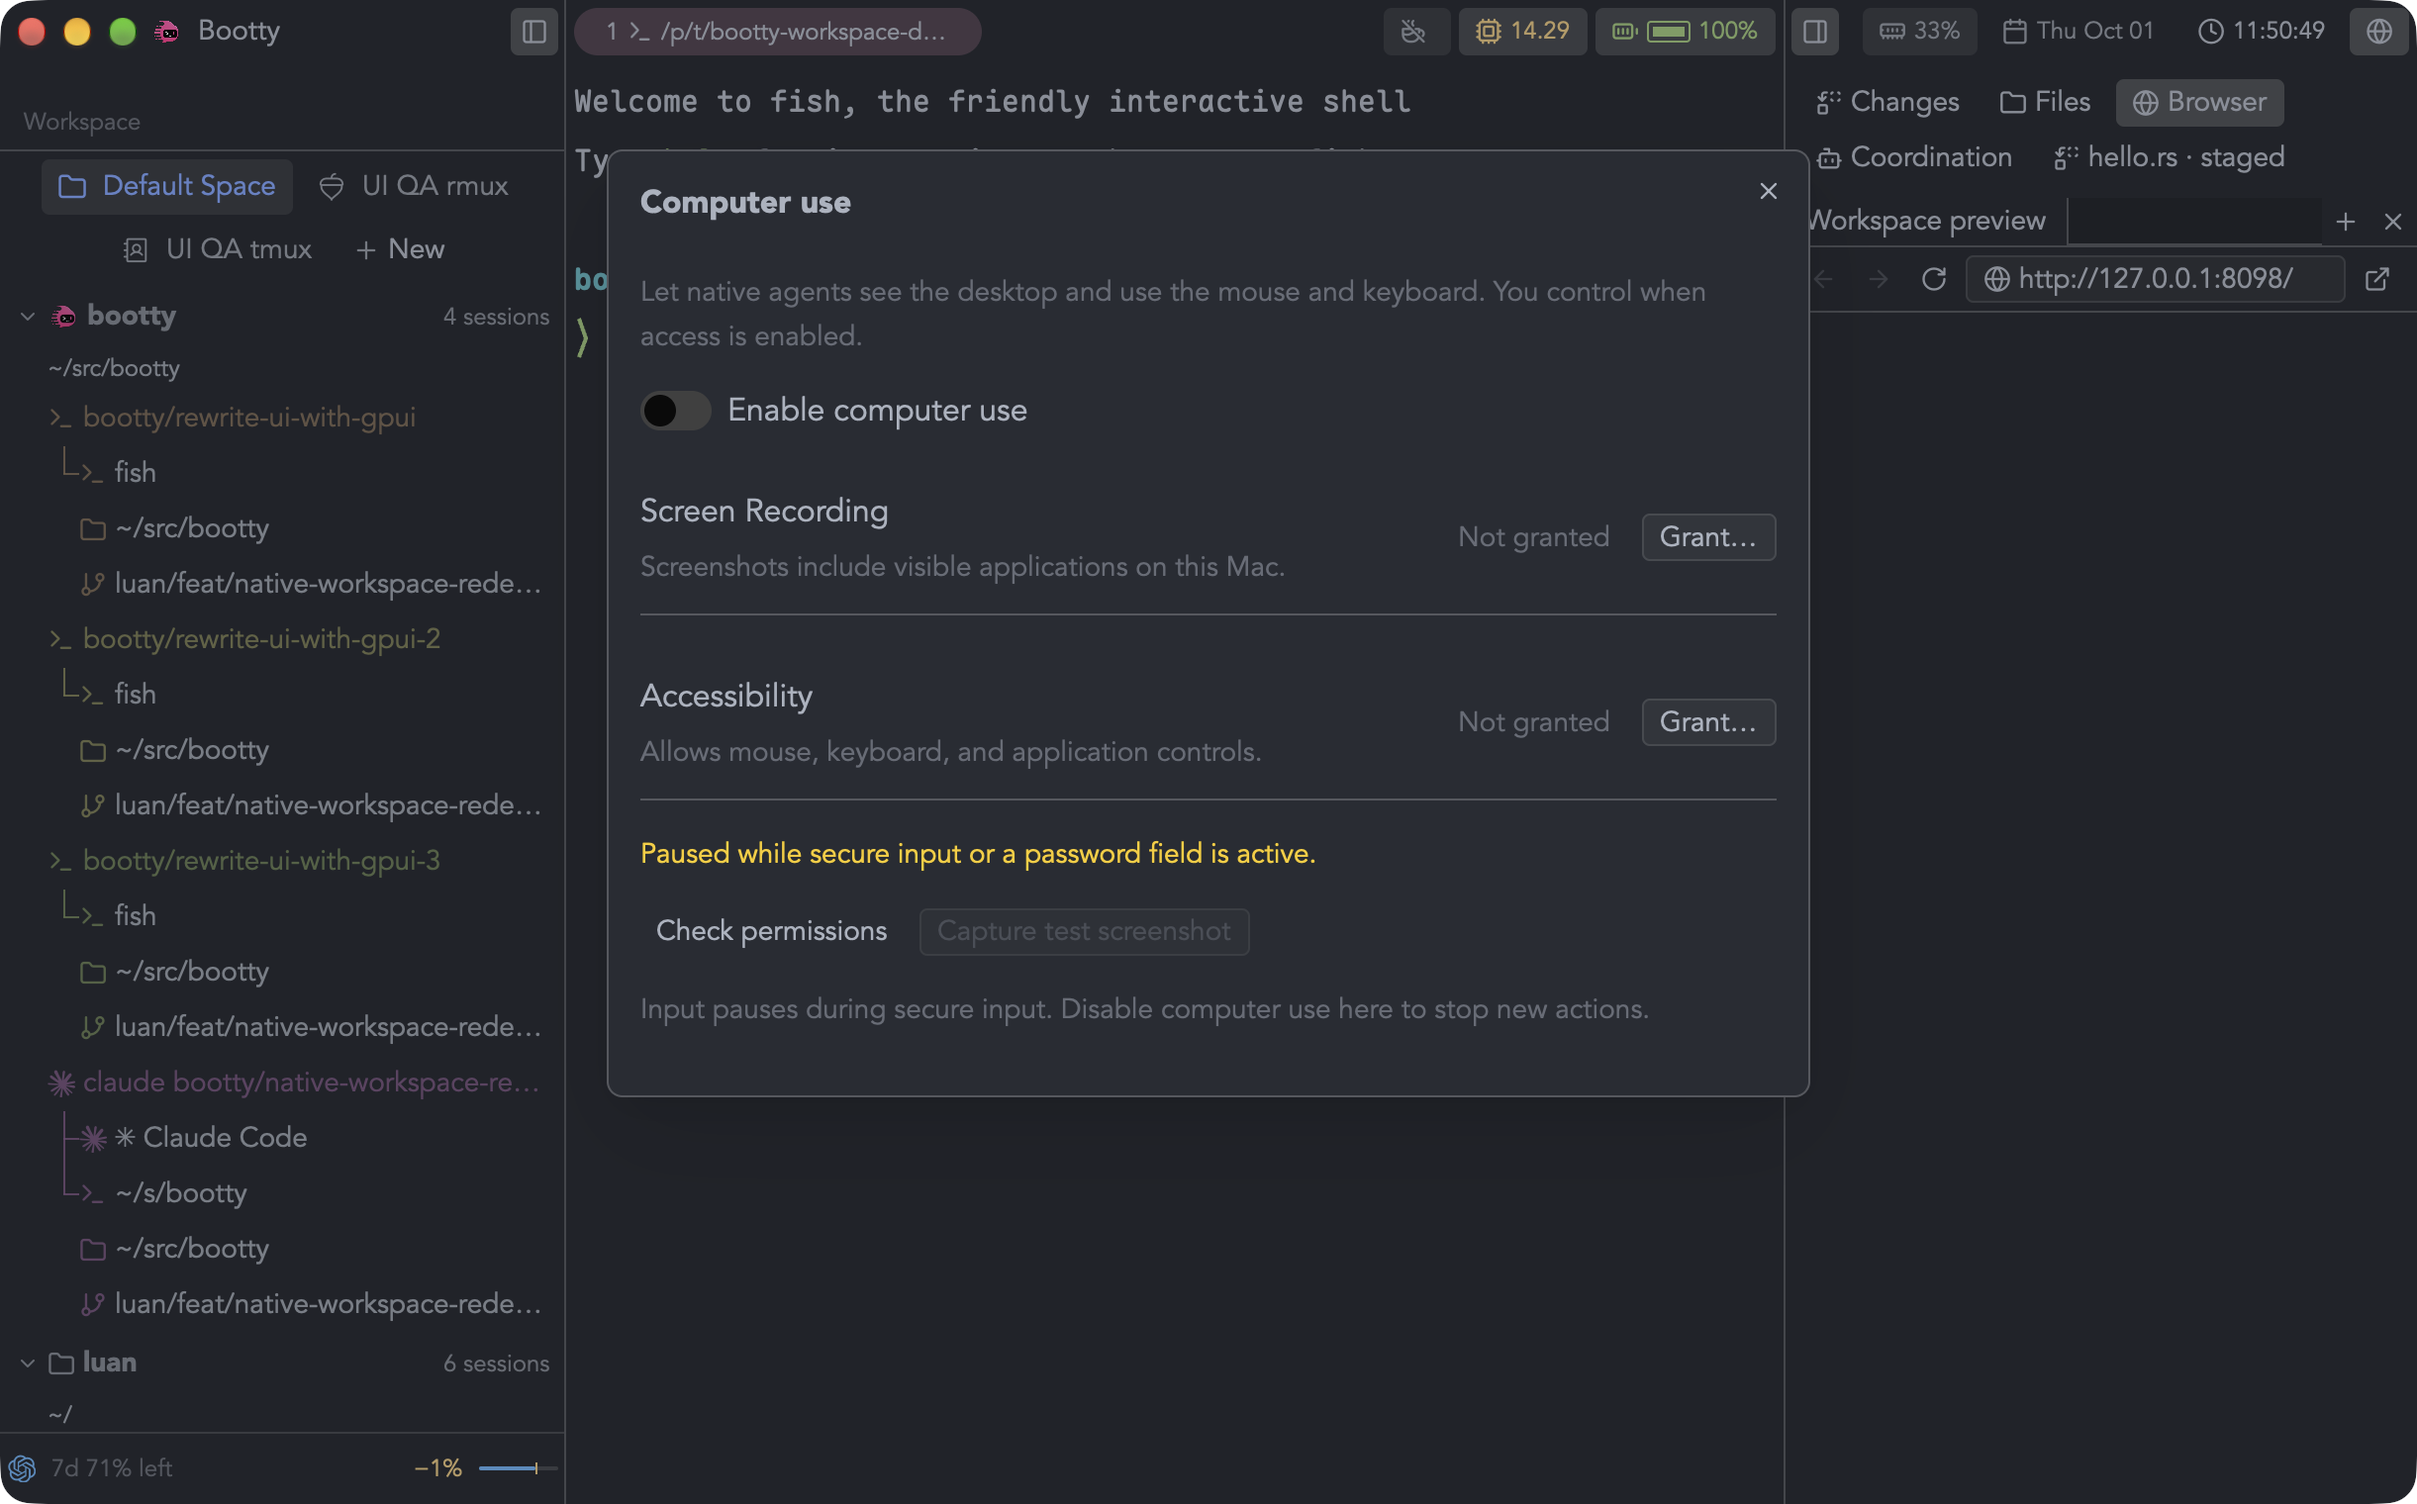
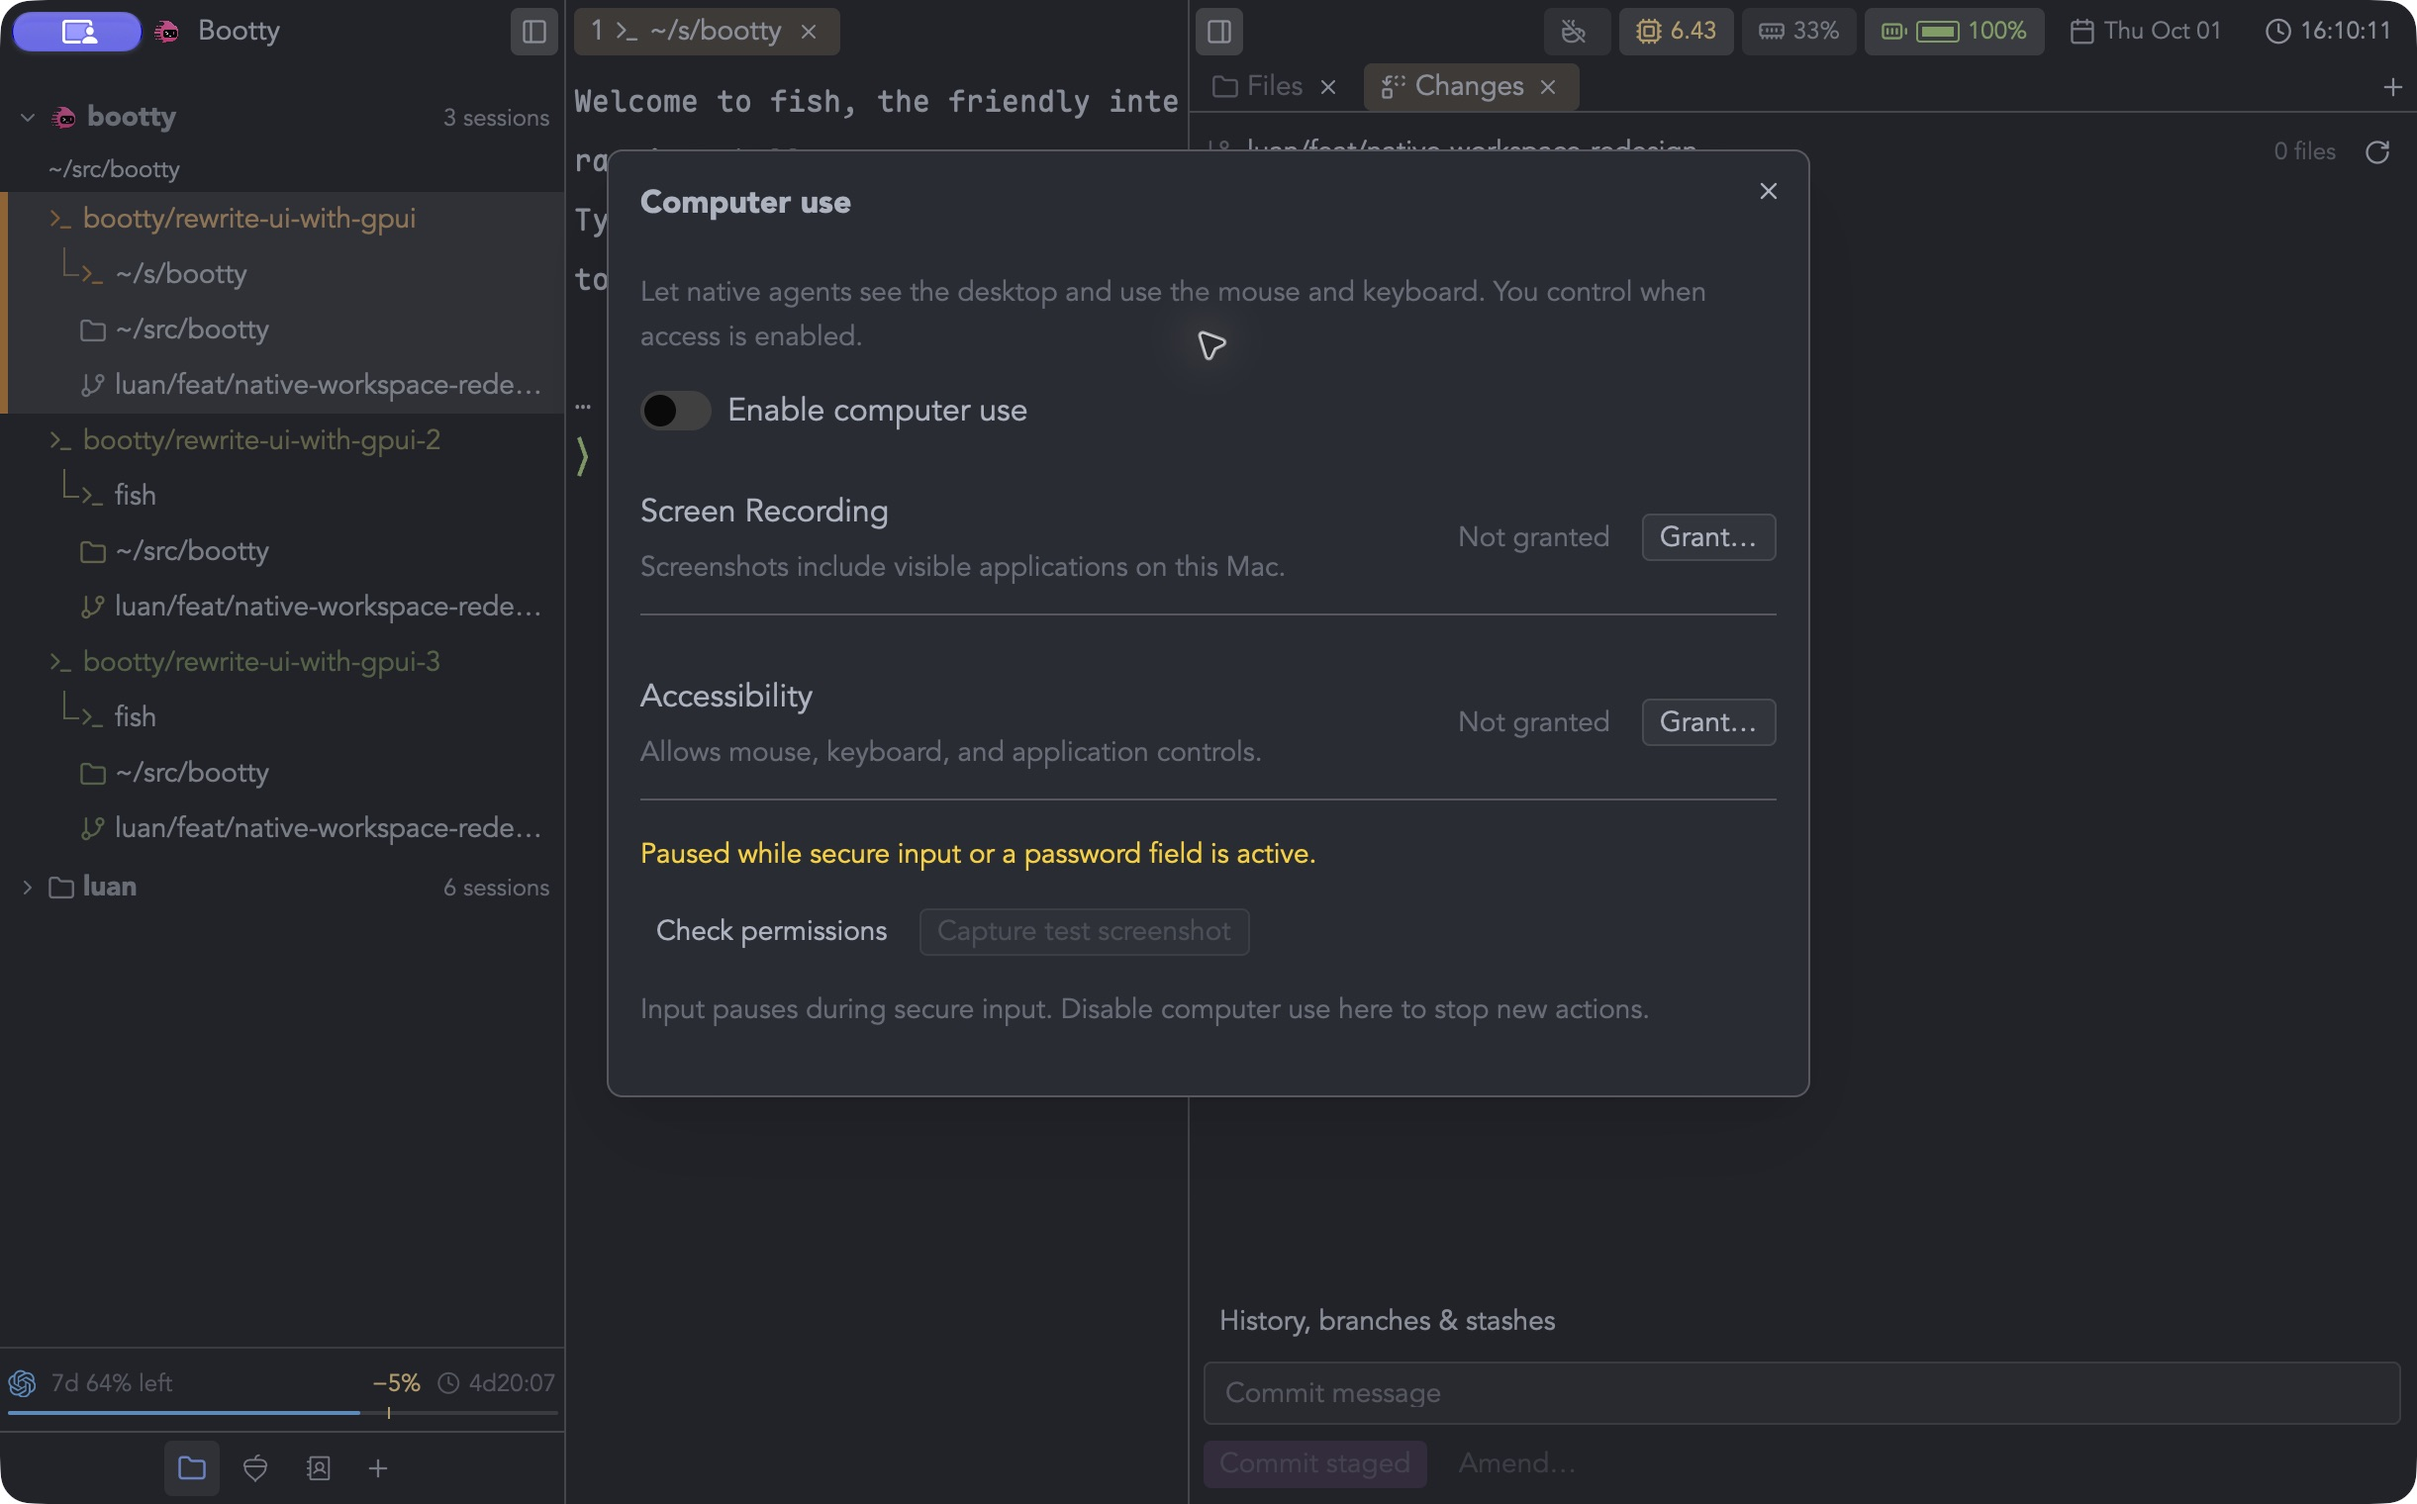
docs(workspace): refresh native setup screenshots

diff --git a/docs/media/workspace/README.md b/docs/media/workspace/README.md
@@ -27,10 +27,10 @@ terminals, including their normal tabs and splits.
 ![Linux X11 browser](linux-x11.png)
 ![Linux XWayland browser](linux-xwayland.png)
 
-The current screenshots and browser-tabs recording show bottom icon-only Spaces
-with tooltip names, usage reset time and pacing, and the same tab appearance
-setting in both tab rows. The other short recordings demonstrate individual
-interactions before these spacing and footer refinements.
+The sessions, shared-tab, browser, computer-use and coordination screenshots,
+and the browser-tabs recording, show bottom icon-only Spaces with tooltip names,
+usage reset time and pacing, and the same tab appearance setting in both tab rows.
+The other demonstrations predate these spacing and footer refinements.
 
 Computer use is disabled and the current development identity reports Screen
 Recording and Accessibility as not granted. The native helper was separately
